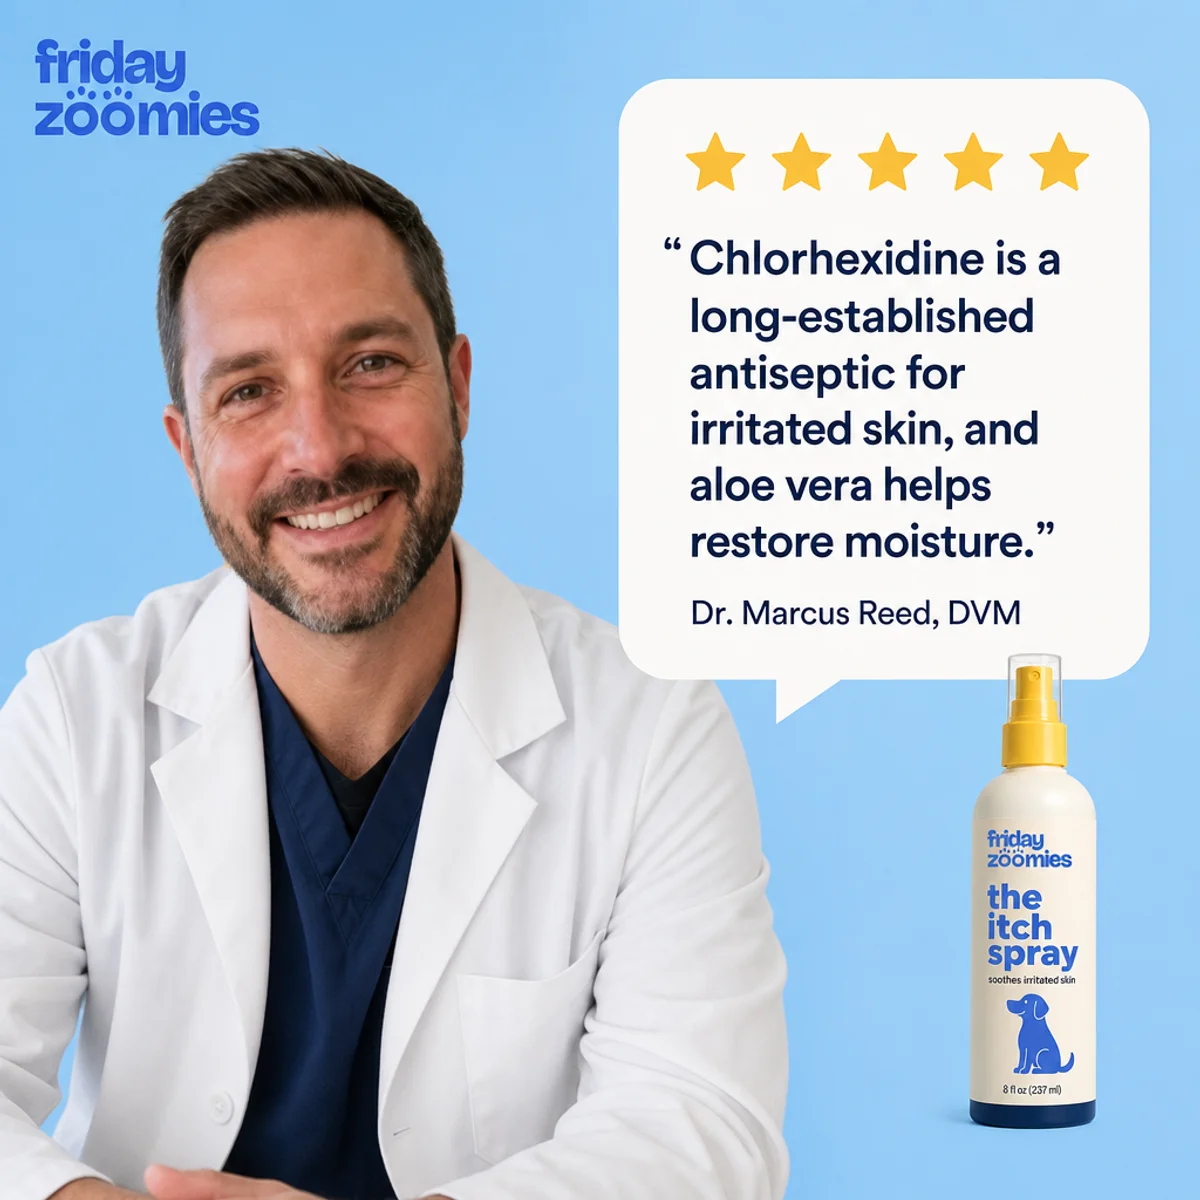
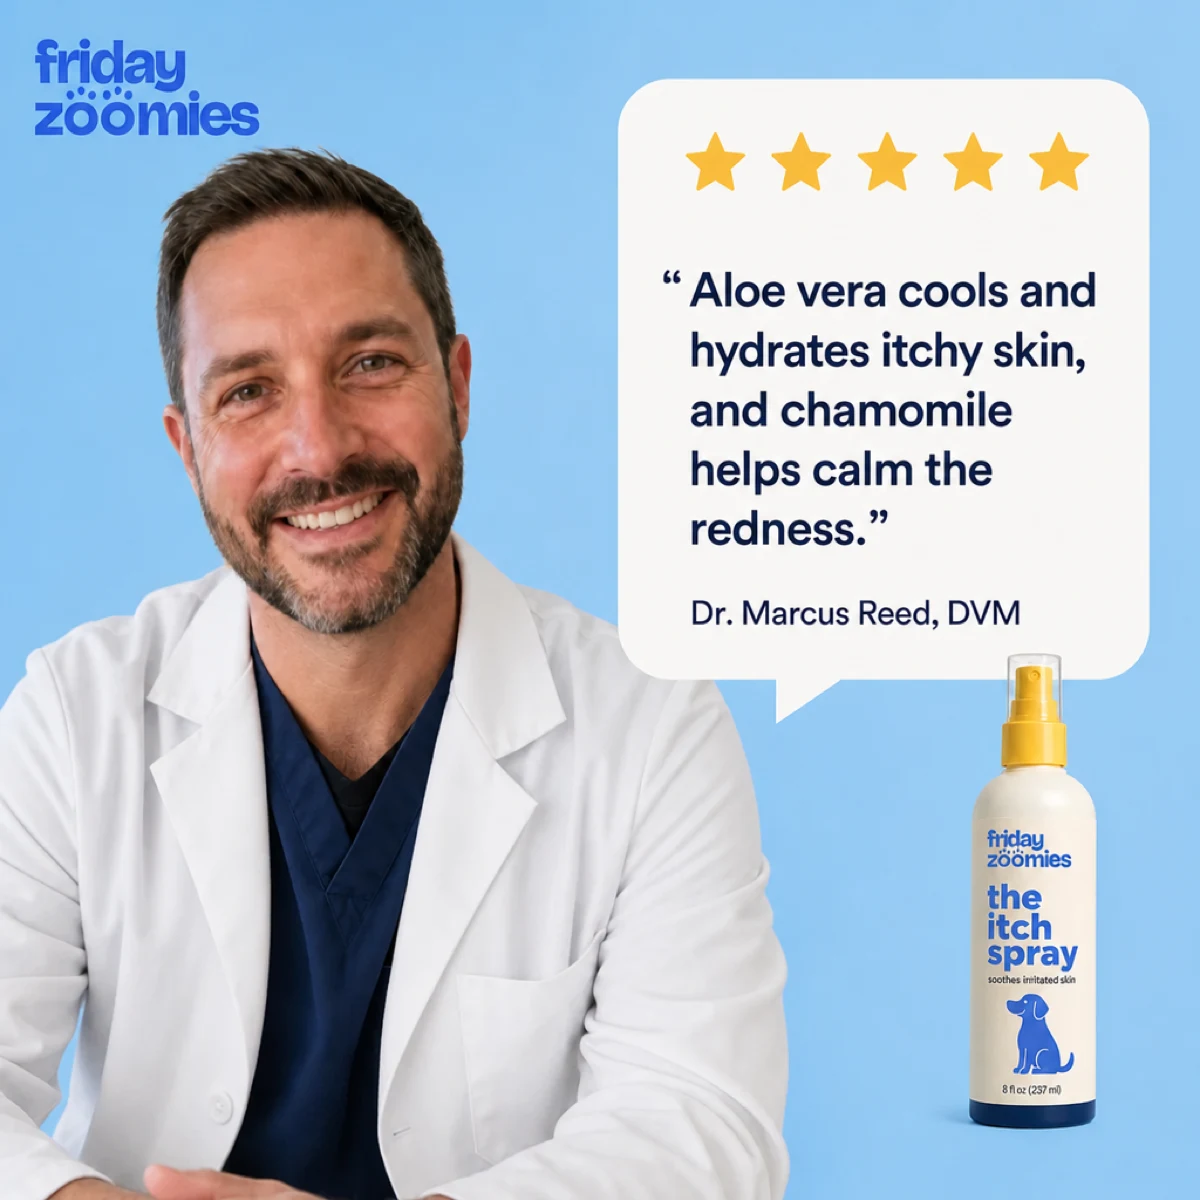
fridayzoomies: vet slide quote is about the spray's aloe and chamomile

diff --git a/components/itch-quiz/FridayZoomiesPdp.tsx b/components/itch-quiz/FridayZoomiesPdp.tsx
@@ -18,7 +18,7 @@ const IMAGES = [
   { src: `${DIR}/pdp/instant-relief.webp`, alt: "The itch spray: instant relief that soothes on contact, calms the scratch cycle and gives skin time to heal" },
   { src: `${DIR}/pdp/long-lasting-relief.webp`, alt: "The daily chew: long-lasting relief that treats the root cause, not just the symptoms" },
   { src: `${DIR}/pdp/what-to-expect.webp`, alt: "What to expect: immediate relief on day 1, less itching and spraying by day 14, calmer skin by day 30" },
-  { src: `${DIR}/pdp/vet-spray.webp`, alt: "A veterinarian on the itch spray" },
+  { src: `${DIR}/pdp/vet-spray.webp`, alt: "A veterinarian on the itch spray's aloe and chamomile" },
   { src: `${DIR}/pdp/vet-chew.webp`, alt: "A veterinarian on the daily chew's quercetin and salmon oil" },
   { src: `${DIR}/pdp/guarantee.webp`, alt: "90-day guarantee: if the itching hasn't improved, a full refund" },
 ];
